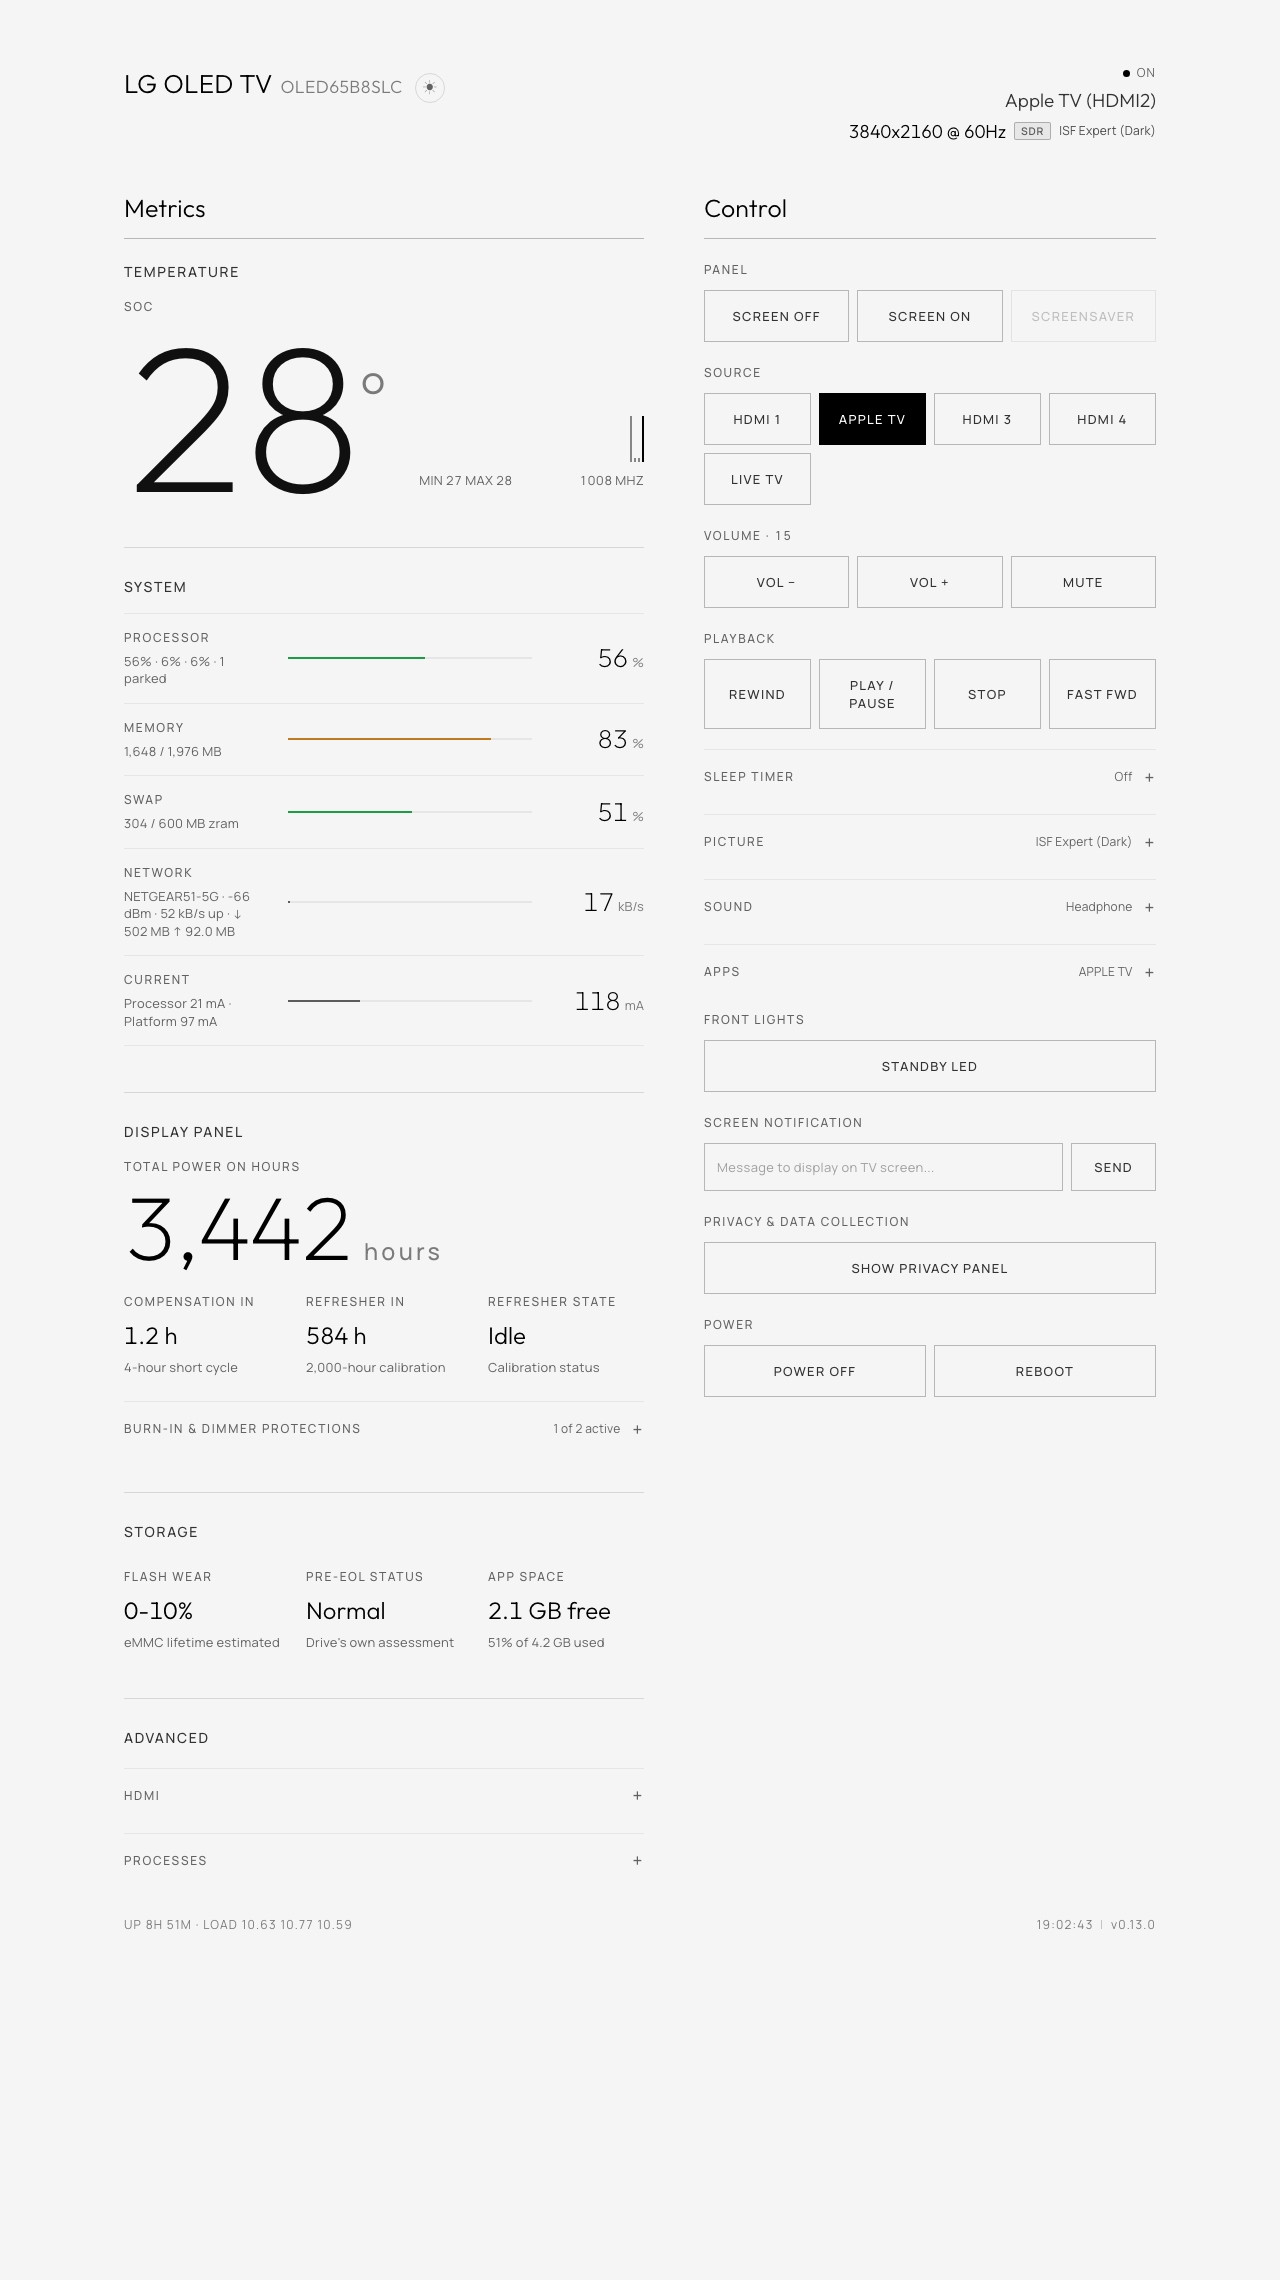
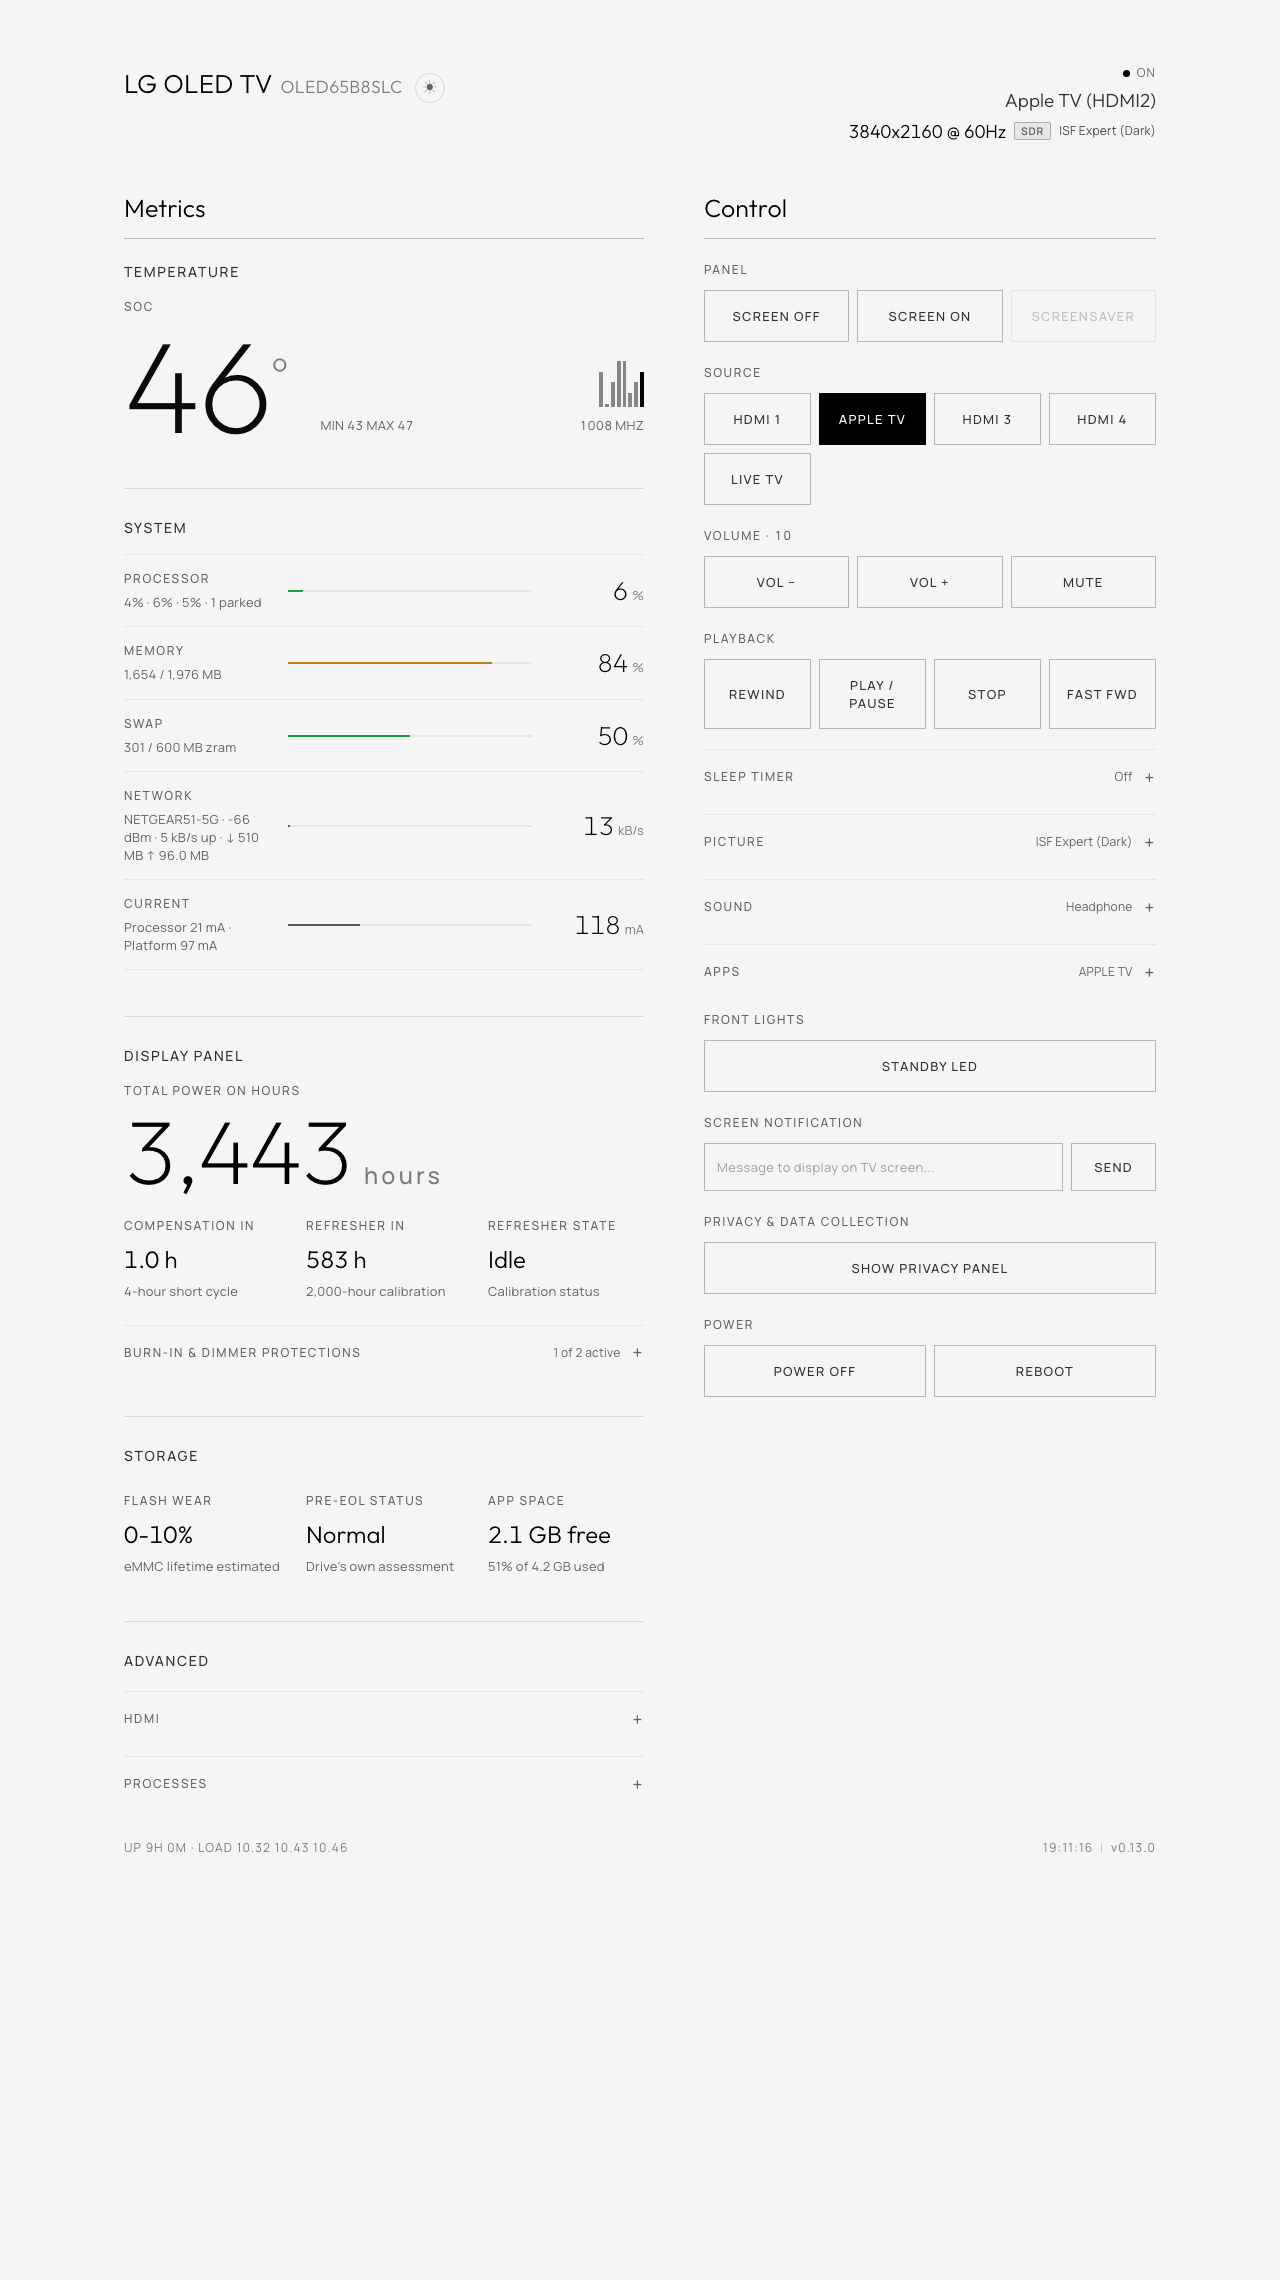
style(ui): resize temperature hero display to clamp(68px, 13vw, 130px)

diff --git a/server/assets/ui.html b/server/assets/ui.html
@@ -172,13 +172,11 @@ header{display:flex;justify-content:space-between;align-items:flex-start;gap:24p
 /* ---- the spectacle ---- */
 .hero{margin:clamp(20px,4vw,34px) 0 0;display:flex;align-items:flex-end;justify-content:space-between;gap:32px;flex-wrap:wrap}
 .hero .big{font-family:'Outfit';font-weight:200;color:var(--hot,var(--w100));transition:color .8s ease;
-  font-size:clamp(96px,20vw,208px);line-height:.82;letter-spacing:-.025em}
+  font-size:clamp(68px,13vw,130px);line-height:.86;letter-spacing:-.025em}
 .hero .deg{font-size:.34em;color:var(--w50);vertical-align:super;letter-spacing:0}
-/* Nothing to show. The spectacle is the number, so at 208px an em dash reads
-   as a broken readout rather than an absent one - drop it to the size of an
-   ordinary figure and let the caption say why. */
-.hero .big.none{font-size:clamp(38px,6vw,58px);color:var(--w50)}
-.hero .side{flex:1;min-width:210px;padding-bottom:10px}
+/* Nothing to show. Drop to ordinary size when temperature is unavailable. */
+.hero .big.none{font-size:clamp(36px,6vw,54px);color:var(--w50)}
+.hero .side{flex:1;min-width:210px;padding-bottom:6px}
 .trace{display:flex;align-items:flex-end;gap:2px;height:46px;margin-bottom:9px}
 .trace i{flex:1;background:var(--w25);min-height:1px;display:block;transition:background .8s ease}
 .trace i.warm{background:color-mix(in srgb,var(--hot,var(--w100)) 45%,transparent)}
